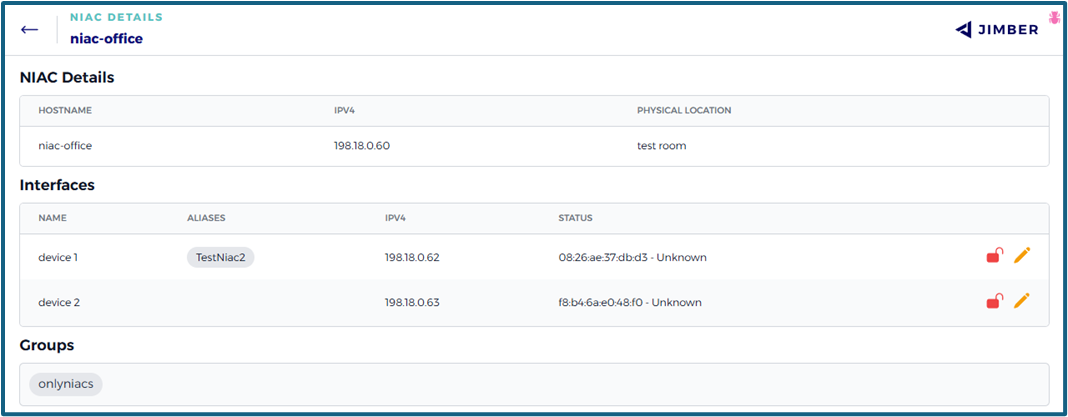
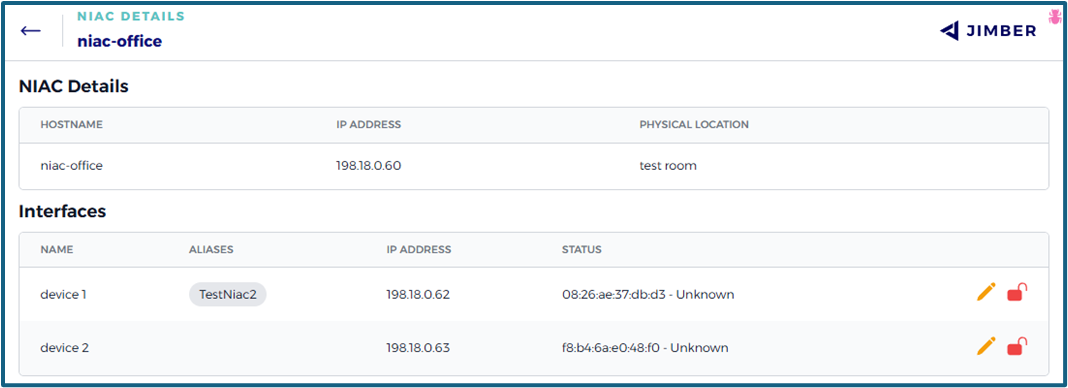
30th of June, 2025

diff --git a/devices/servers/servers.md b/devices/servers/servers.md
@@ -42,7 +42,7 @@ When starting `Jimber SASE Client`, a dialog box will emerge:
 
 The required token was created with the new server. If you did not copy the token in the previous step, it can be retrieved from the 'Servers' tab of the `Jimber SASE Platform`. Simply select and edit the correct server to find it.
 
-![update_server.png](./screenshots/update_server.png ':size=800')
+![update_server.png](./screenshots/update_server_token.png ':size=800')
 
 <!-- ![token.png](./screenshots/token.png ':size=500') -->
 
@@ -110,7 +110,7 @@ Ensure to save the changes made to the file. -->
 If you did not copy the token in the previous step, it can be retrieved from the 'Servers' tab of the `Jimber SASE Platform`. Simply select and edit the correct server to find it.
 
 
-![update_server.png](./screenshots/update_server.png ':size=800')
+![update_server.png](./screenshots/update_server_token.png ':size=800')
 
 
 
@@ -164,20 +164,20 @@ You can search the list of Servers using the search box at the top of the page. 
 Next to the search box, there is a filter icon ![](../../images/icons/icon_filter.png ':size=20'). When clicked, it reveals advanced filtering options where you can define additional conditions based on the following three elements:
 
 - **Property**: A dropdown menu where you choose the field to filter on.
-- **Match type**: A dropdown that allows you to select how to match the value (e.g. `equals`, `contains`, etc.).
+- **Match type**: A dropdown that allows you to select how to match the value (`equals`or `contains`).
 - **Value**: Enter or select the value to match, depending on the selected property.
 
-You can press the `+` button to add multiple filters.
+To add multiple filters you can press the filter icon ![](../../images/icons/icon_filter.png ':size=20') again and then press the `+` button.
 
-Once filters are applied:
+<!-- Once filters are applied:
 - The results are updated to reflect your conditions.
 - Active filters appear at the top of the page.
-- You can remove filters individually by clicking the `X` next to each, or remove all at once by clicking the `Reset Filters` button.
+- You can remove filters individually by clicking the `X` next to each, or remove all at once by clicking the `Reset Filters` button. -->
 
 > [!INFO]
 > You can refresh the list of servers by pressing the refresh icon ![](../../images/icons/icon_reload.png ':size=20') at the top of the page.
 
-You can review the used **Tags** by pressing the `Tags`button at the top of the page. Here you can also delete any used tags by clicking on the delete icon ![](../../images/icons/icon_delete.png ':size=20') in their row..
+You can review the used **Tags** by pressing the `Tags`button at the top of the page. Here you can also delete any used tags by clicking on the delete icon ![](../../images/icons/icon_delete.png ':size=20') in their row.
 
 ![tags.png](./screenshots/tags.png ':size=500')
 
@@ -192,10 +192,8 @@ An online server will appear in the overview with a green dot. An offline server
 
 ![server online.png](./screenshots/server_online.png ':size=800')
 
-To view the details of a specific server and inspect its firewall rules, select the corresponding row in the table.
+Clicking on the corresponding strip of a specific server opens a new window with more details and the firewall rules.
 
-> [!INFO] 
-> Avoid using the action buttons at the end of the row (e.g. edit or delete).
 
 ![server_detail.png](./screenshots/server_details.png ':size=500')
 ![server_firewall_rules.png](./screenshots/server_firewall_rules.png ':size=500')
@@ -207,21 +205,21 @@ An update is available when indicated by the green update icon ![](../../images/
 Click the update icon ![](../../images/icons/icon_update.png ':size=20') to initiate the update.
 
 > [!INFO]
-> Avoid clicking the update icon several times. In case of a successful update, the update icon disappears. Should the icon remain after several minutes, retry the update by clicking the icon again. 
+> In case of a successful update, the update icon disappears. Should the icon remain after several minutes, retry the update by clicking the icon again. 
 
 
 >[!WARNING]
 > The update icon is not visible when the server is offline.
 
-### Edit Servers
+### Edit Server
 
 Servers can be edited by clicking on the edit icon ![](../../images/icons/icon_edit.png ':size=20') in their row.
 
-![edit server.png](./screenshots/edit_server.png ':size=500')
+![edit server.png](./screenshots/update_server.png ':size=800')
 
 All options are the same as when creating a server.
 
-### Delete Servers
+### Delete Server
 
 Servers can be deleted by clicking on the delete icon ![](../../images/icons/icon_delete.png ':size=20') in their row.
 

diff --git a/devices/userdevices/userdevices.md b/devices/userdevices/userdevices.md
@@ -181,6 +181,9 @@ In the overview of the user devices, you can already see some properties:
 - IP-address.
 - Approval status.
 
+>[!NOTE]
+>The "Device Approval" feature on our platform adds an extra layer of security and control by requiring administrative approval before a device can be added to the network. This process ensures that only authorized devices are granted access, helping to maintain the integrity and security of the network.
+
 ![overview_userdevices.png](./screenshots/overview_userdevices.png ":size=800")
 
 The overview also allows you to see which devices are online or offline:
@@ -199,6 +202,28 @@ The software tab shows the installed antivirus software:
 ![user_device_info_software.png](./screenshots/user_device_info_software.png ":size=500")
 
 The info can be copied by using the copy button ![](../../images/buttons/button_copy.png ":size=25") in the right upper corner.
+
+### Filter User Devices
+
+You can search the list of user devices using the search box at the top of the page. This helps you quickly find and manage the device you're looking for.
+
+- Use the search box to enter keywords and filter the device list.
+
+Next to the search box, there is a filter icon ![](../../images/icons/icon_filter.png ':size=20'). When clicked, it reveals advanced filtering options where you can define additional conditions based on the following three elements:
+
+- **Property**: A dropdown menu where you choose the field to filter on.
+- **Match type**: A dropdown that allows you to select how to match the value (`equals`or `contains`).
+- **Value**: Enter or select the value to match, depending on the selected property.
+
+To add multiple filters you can press the filter icon ![](../../images/icons/icon_filter.png ':size=20') again and then press the `+` button.
+
+<!-- Once filters are applied:
+- The results are updated to reflect your conditions.
+- Active filters appear at the top of the page.
+- You can remove filters individually by clicking the `X` next to each, or remove all at once by clicking the `Reset Filters` button. -->
+
+> [!INFO]
+> You can refresh the list of user devices by pressing the refresh icon ![](../../images/icons/icon_reload.png ':size=20') at the top of the page.
 
 ### Delete user devices
 

diff --git a/devices/networkcontrollers/networkcontrollers.md b/devices/networkcontrollers/networkcontrollers.md
@@ -5,7 +5,7 @@
 A network controller is a networking device that forwards data packets between the network. Network controllers play a crucial role in the `Jimber SASE Platform`. Isolating a network means restricting its accessibility to only trusted entities and ensuring unauthorized access is prevented. 
 
 > [!INFO]
-> It ensures that each part of your network, whether it's a device, user, or application, cannot access any other part without explicit permission.
+> It ensures that each part of your network, whether it's a device, a user or an application cannot access any other part without explicit permission.
 
 
 ![network controllers.png](./screenshots/networkcontrollers.png ':size=800')
@@ -38,12 +38,12 @@ To add a network controller into the `Jimber SASE Platform`, click on the `+ Cre
 
 ![create_networkcontroller.png](./screenshots/create_networkcontroller.png ':size=500')
 
-> [!WARNING]
-> Hostname, Endpoint Address and Public IP are mandatory.
+
+Hostname, Endpoint Address and Public IP are mandatory.
 
 > [!INFO]
 > Detailed instructions for the installation of an on-prem Network Controller are available [here](../../advanced/networkcontrollerssetup/SettingUpServer.md). 
-> The minimum specifications for on-prem Network Controllers are:
+> The minimum specifications for on-prem Network Controller are:
 > 
 > **General**:
 > - 25GB hard disk
@@ -51,11 +51,11 @@ To add a network controller into the `Jimber SASE Platform`, click on the `+ Cre
 > - 2 CPU
 > - 4GB RAM
 
-### Edit on-premise Network Controllers
+### Edit on-premise Network Controller
 
- Network Controllers can be edited by clicking on the edit icon ![](../../images/icons/icon_edit.png ':size=20') in their row.
+ A Network Controller can be edited by clicking on the edit icon ![](../../images/icons/icon_edit.png ':size=20') in its row.
 
-![edit_networkcontroller.png](./screenshots/edit_networkcontroller.png ':size=500')
+![edit_networkcontroller.png](./screenshots/edit_networkcontroller.png ':size=500') 
 
 
 ### Delete on-premise Network Controllers

diff --git a/devices/nativedevices/nativedevices.md b/devices/nativedevices/nativedevices.md
@@ -10,7 +10,7 @@ For instance, should an IP camera be situated within the camera VLAN and access 
 
 
 
-### Create Native Devices
+### Create Native Device
 To create a new native device into the `Jimber SASE Platform`, click on the `+ Create new` button located at the upper right corner of the interface.
 
 ![create_native.png](./screenshots/create_native.png ':size=500x350')
@@ -40,23 +40,23 @@ Choose the Native Device as 'Destination'.
 ![add_attr_services.png](./screenshots/add_attr_services.png ':size=800')
 
 
-### Details of Native Devices
+### Details of a Native Device
 
-To view the details of a specific Native Device, select its row in the table (rather than using the action buttons at the end). This will reveal any additional information, such as the optional alias.
+Clicking on the corresponding strip of a device opens a detailed view with additional information.
 
 ![details_native.png](./screenshots/details_native.png ':size=800')
 
 
-### Edit Native Devices
+### Edit a Native Device
   
- A native device can be edited by clicking on the edit icon ![](../../images/icons/icon_edit.png ':size=20') in their row.
+ A native device can be edited by clicking on the edit icon ![](../../images/icons/icon_edit.png ':size=20') in its row.
  
   ![edit_native.png](./screenshots/edit_native.png ':size=500x350')
 
    
-### Delete Native Device
+### Delete a Native Device
 
- A native device can be deleted by clicking on the delete icon ![](../../images/icons/icon_delete.png ':size=20') in their row.
+ A native device can be deleted by clicking on the delete icon ![](../../images/icons/icon_delete.png ':size=20') in its row.
  
  You will receive a warning before the device is permanently deleted:
  

diff --git a/devices/niacs/niacs.md b/devices/niacs/niacs.md
@@ -56,7 +56,16 @@ Clicking on the corresponding strip of the NIAC opens a new window with more det
 
 ![niac_details.png](./screenshots/niac_details.png ':size=600')
 
+- #### Release device
 You can release one of the devices connected to the NIAC by clicking on the red padlock icon ![](../../images/icons/icon_lock.png ':size=20') in their row.
+
+![deleting_dhcp_lease.png](./screenshots/deleting_dhcp_lease.png ':size=400')
+
+- #### Update device
+
+You can delete or add aliases for a device by clicking on the edit icon ![](../../images/icons/icon_edit.png ':size=20') in its row.
+
+![update_device.png](./screenshots/update_device.png ':size=400')
 
 ### Edit NIAC
 
